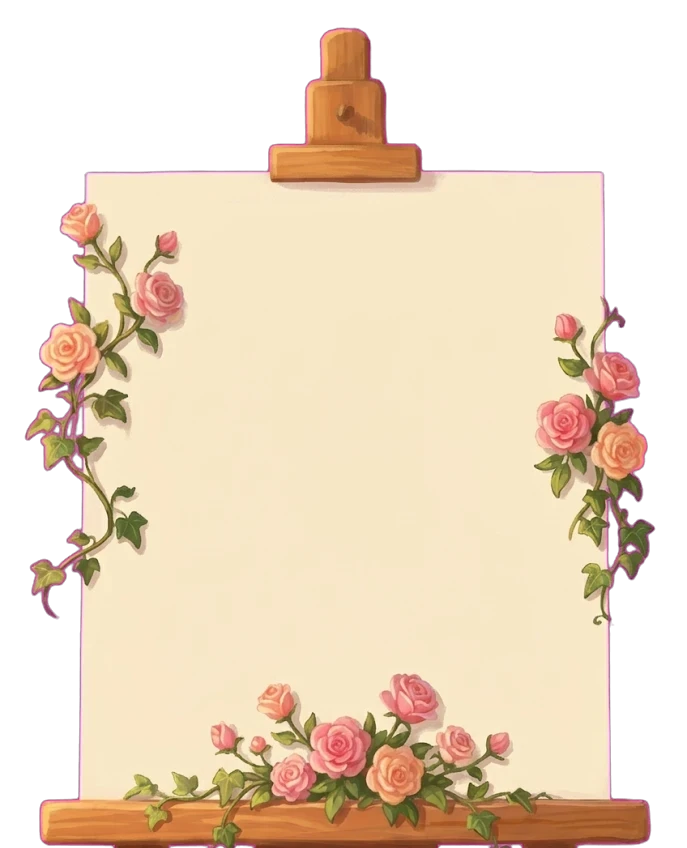
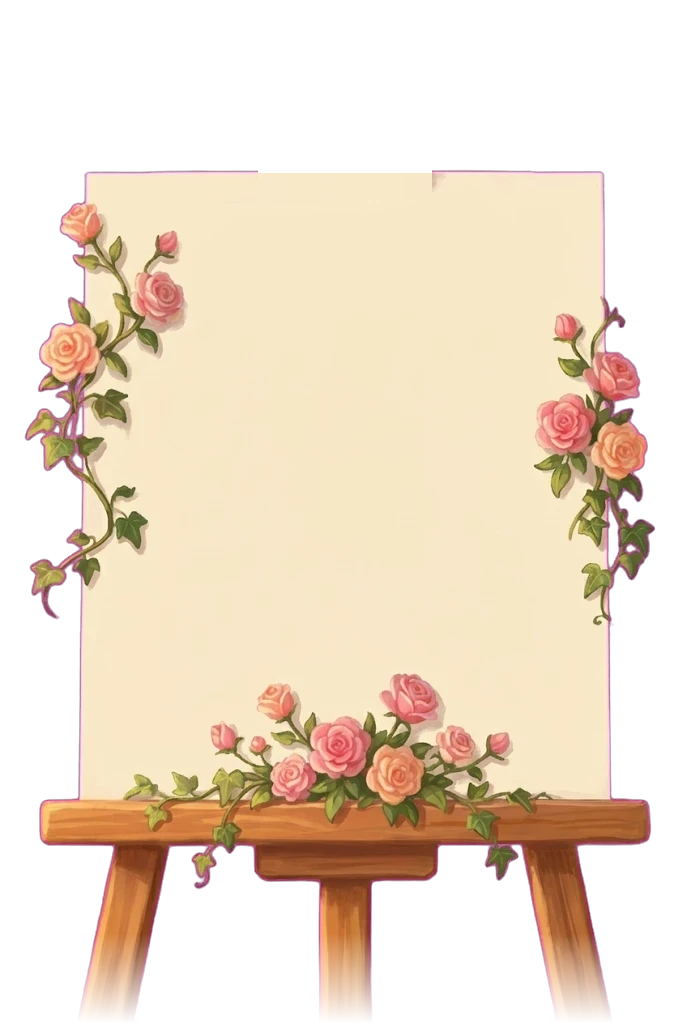
Taman Bunga trial: easel keeps its legs, prints curl over a ring binding
The easel keeps its legs (they fade into the flower bed) and its top is
cut flat. The prints are a ring-bound pad: rings along the top, punched
holes in every print. A print turns like paper: it is six nested strips,
each starting a little later the nearer it is to the rings, so the bottom
edge lifts first and the print curls up over the rings and down behind
the pad. Strips overlap by a pixel so no hairline shows between them.

Claude-Session: https://claude.ai/code/session_019p87eqsaJVTv3pDoAT7Qpw

diff --git a/src/all-templates/taman-bunga/engine/scene.js b/src/all-templates/taman-bunga/engine/scene.js
@@ -351,8 +351,12 @@ export function mountScene(root, { toNominal, lanternStops, wishCount = 0 }) {
     gallery.caption = $('[data-tb-gallery-caption]')
     gallery.pages = [...root.querySelectorAll('[data-tb-page]')].map((el) => ({
       el,
-      shade: el.querySelector('.tb-page-front .tb-page-shade'),
-      backShade: el.querySelector('.tb-page-back .tb-page-shade'),
+      // outermost (at the rings) first: document order of the nested strips
+      strips: [...el.querySelectorAll('[data-tb-strip]')].map((s) => ({
+        el: s,
+        shade: s.querySelector(':scope > .tb-strip-face:not(.tb-strip-back) > .tb-page-shade'),
+        backShade: s.querySelector(':scope > .tb-strip-back > .tb-page-shade'),
+      })),
       p: -1,
     }))
     if (gallery.el) gallery.t = parseT(gallery.el)
@@ -1284,32 +1288,48 @@ export function mountScene(root, { toNominal, lanternStops, wishCount = 0 }) {
         const s = easelSc / z
         const { ew, eh } = gallery
         const horizon = ch * 0.5
-        const ledge = horizon + (ch * 0.84 - horizon) / z // the bottom of its ledge
+        const ground = horizon + (ch * 0.84 - horizon) / z // where its legs meet the flowers
         const x = cw / 2 + (gout > 0 ? cw * 1.2 * gout : (cw * 0.55 * (z - 1)) / 1.8)
-        gallery.easel.style.transform = `translate(${x - (ew / 2) * s}px, ${ledge - eh * s}px) scale(${s})`
+        gallery.easel.style.transform = `translate(${x - (ew / 2) * s}px, ${ground - eh * s}px) scale(${s})`
         if (gallery.dim !== dim) {
           gallery.easel.style.filter = dim < 1 ? `brightness(${dim})` : ''
           gallery.dim = dim
         }
-        // Each page turns over its own stretch of scroll: the bottom edge lifts
-        // toward us, swings over the top of the board and drops behind it.
+        // Each print turns over its own stretch of scroll, like paper: its
+        // bottom edge lifts first and the rest follows, so it curls up and
+        // over the rings, then falls behind the pad. Strip i (from the rings
+        // down) starts later the nearer it is to the rings; all end flat at 300°.
         const n = gallery.pages.length
         const turned = seg(T, gb, 0.965) * Math.max(0, n - 1)
-        let above = 0 // how far the page above this one is lifted (it casts a shadow)
         for (let i = 0; i < n; i++) {
           const pg = gallery.pages[i]
-          const p = ease(clamp(turned - i, 0, 1))
-          const ang = 300 * p
-          if (pg.p !== p) {
-            pg.p = p
-            pg.el.style.transform = `rotateX(${ang.toFixed(2)}deg)`
-            pg.el.style.visibility = p >= 1 ? 'hidden' : 'visible'
-            if (pg.backShade) pg.backShade.style.opacity = (0.35 * (1 - Math.abs(Math.cos((ang * Math.PI) / 180)))).toFixed(3)
+          const p = clamp(turned - i, 0, 1)
+          if (pg.p === p) continue
+          pg.p = p
+          pg.el.style.visibility = p >= 1 ? 'hidden' : 'visible'
+          // past the top it drops behind the pad: let it go before it would show through
+          pg.el.style.opacity = String(1 - seg(p, 0.82, 0.97))
+          const N = pg.strips.length
+          let prev = 0
+          pg.strips.forEach((st, k) => {
+            const lag = 0.3 * (1 - (k + 1) / N)
+            const ang = 300 * ease(clamp((p - lag) / (1 - lag), 0, 1))
+            st.el.style.transform = `rotateX(${(ang - prev).toFixed(2)}deg)`
+            prev = ang
+            // light from in front: a strip darkens as it tips away from us
+            const c = Math.cos((ang * Math.PI) / 180)
+            if (st.shade) st.shade.style.opacity = (0.34 * (1 - Math.max(0, c))).toFixed(3)
+            if (st.backShade) st.backShade.style.opacity = (0.3 * (1 - Math.max(0, -c))).toFixed(3)
+          })
+        }
+        // the print under the one being lifted lies in its shadow
+        for (let i = 1; i < n; i++) {
+          const lift = clamp(turned - (i - 1), 0, 1)
+          const sh = 0.26 * Math.sin(Math.min(1, lift * 1.6) * Math.PI)
+          const top = gallery.pages[i].strips
+          if (top.length && top[0].shade && gallery.pages[i].p <= 0) {
+            for (const st of top) if (st.shade) st.shade.style.opacity = sh.toFixed(3)
           }
-          const tilt = 0.3 * Math.sin((Math.min(ang, 90) * Math.PI) / 180)
-          const under = 0.28 * Math.sin((Math.min(above, 180) * Math.PI) / 180)
-          if (pg.shade) pg.shade.style.opacity = Math.max(tilt, under).toFixed(3)
-          above = ang
         }
       }
     }

diff --git a/src/all-templates/taman-bunga/sections/Journey.jsx b/src/all-templates/taman-bunga/sections/Journey.jsx
@@ -202,10 +202,40 @@ export function galleryPhotos(props) {
     .slice(0, 30)
 }
 
+/** How many strips a print bends in as it turns (engine/scene.js reads them). */
+const PAGE_STRIPS = 6
+/** Ring binding along the top of the pad: ring centres across the 528 px board. */
+const RINGS = Array.from({ length: 11 }, (_, i) => 24 + i * 48)
+
 /**
- * One easel board standing in the garden (painted, legs cropped off), holding
- * the photos as a pad of prints; its roses and ivy sit in front of them. The engine walks it into view and, as the guest scrolls, lifts the
- * top print by its bottom edge, swings it over the board and drops it behind,
+ * One slice of a print: its band of the paper (front: photo, back: plain),
+ * with the next slice hanging from its bottom edge. Nested, so each slice
+ * turns a little more than the one above it and the print curls like paper.
+ */
+function PageStrip({ k, photo }) {
+  const band = { top: `${-k * 100}%`, height: `${PAGE_STRIPS * 100}%` }
+  return (
+    <div className="tb-strip" data-tb-strip>
+      <div className="tb-strip-face">
+        <div className="tb-page-paper" style={band}>
+          <div className="tb-page-photo" style={{ backgroundImage: `url("${photo.src}")` }} />
+        </div>
+        <i className="tb-page-shade" />
+      </div>
+      <div className="tb-strip-face tb-strip-back">
+        <div className="tb-page-paper tb-page-paper-back" style={band} />
+        <i className="tb-page-shade" />
+      </div>
+      {k + 1 < PAGE_STRIPS && <PageStrip k={k + 1} photo={photo} />}
+    </div>
+  )
+}
+
+/**
+ * One easel standing in the garden (painted; its top cut flat), holding the
+ * photos as a ring-bound pad of prints; its roses and ivy sit in front of
+ * them. The engine walks it into view and, as the guest scrolls, curls the
+ * top print up by its bottom edge, over the rings and back behind the pad,
  * showing the next (engine/scene.js, renderCopy). Tap a print to enlarge it.
  */
 export function Gallery({ props, onOpen }) {
@@ -217,17 +247,35 @@ export function Gallery({ props, onOpen }) {
         <img className="tb-easel-back" src={SCENE.easelBack} alt="" />
         <div className="tb-easel-board" data-tb-easel-board>
           {photos.map((p, i) => (
-            <div key={`${p.src}-${i}`} className="tb-page" data-tb-page style={{ zIndex: photos.length - i }}>
-              <button type="button" className="tb-page-front" aria-label={`Perbesar foto ${p.alt || i + 1}`} onClick={() => onOpen(p)}>
-                {/* eslint-disable-next-line @next/next/no-img-element */}
-                <img src={p.src} alt={p.alt || ''} loading={i < 2 ? 'eager' : 'lazy'} />
-                <i className="tb-page-shade" />
-              </button>
-              <div className="tb-page-back" aria-hidden="true">
-                <i className="tb-page-shade" />
-              </div>
+            <div
+              key={`${p.src}-${i}`}
+              className="tb-page"
+              data-tb-page
+              style={{ zIndex: photos.length - i }}
+              role="button"
+              tabIndex={0}
+              aria-label={`Perbesar foto ${p.alt || i + 1}`}
+              onClick={() => onOpen(p)}
+              onKeyDown={(e) => (e.key === 'Enter' || e.key === ' ') && (e.preventDefault(), onOpen(p))}
+            >
+              <PageStrip k={0} photo={p} />
             </div>
           ))}
+          <svg className="tb-easel-rings" viewBox="0 0 528 42" aria-hidden="true">
+            <defs>
+              <linearGradient id="tb-ring" x1="0" x2="1">
+                <stop offset="0" style={{ stopColor: '#8f6a3a' }} />
+                <stop offset="0.5" style={{ stopColor: '#f3d9a4' }} />
+                <stop offset="1" style={{ stopColor: '#a37a42' }} />
+              </linearGradient>
+            </defs>
+            {RINGS.map((x) => (
+              <g key={x}>
+                <path d={`M${x - 4} 39 A5 25 0 0 1 ${x + 4} 39`} fill="none" stroke="rgba(40, 20, 10, 0.35)" strokeWidth="4.2" transform="translate(1 1.5)" />
+                <path d={`M${x - 4} 39 A5 25 0 0 1 ${x + 4} 39`} fill="none" stroke="url(#tb-ring)" strokeWidth="3.4" strokeLinecap="round" />
+              </g>
+            ))}
+          </svg>
         </div>
         {/* eslint-disable-next-line @next/next/no-img-element */}
         <img className="tb-easel-front" src={SCENE.easelFront} alt="" />

diff --git a/src/all-templates/taman-bunga/styles/taman-bunga.css b/src/all-templates/taman-bunga/styles/taman-bunga.css
@@ -450,15 +450,16 @@ html.tb-locked body {
   opacity: 0;
   visibility: hidden;
 }
-/* One easel board (easel-back/front.webp, 687×848 px, the paper at 81,173
+/* One easel (easel-back/front.webp, 687×1024 px, the paper at 81,173
    528×626); the engine sizes and places it (transform on .tb-easel) and turns
-   the pages (rotateX on each .tb-page, about its top edge). */
+   the prints: each is six nested strips (.tb-strip), each rotated a little
+   more than the one above it (rotateX), so it curls like paper. */
 .tb-easel {
   position: absolute;
   left: 0;
   top: 0;
   width: 687px;
-  height: 848px;
+  height: 1024px;
   transform-origin: 0 0;
   will-change: transform;
   z-index: 1;
@@ -475,6 +476,16 @@ html.tb-locked body {
 .tb-easel-front {
   z-index: 2; /* roses and ivy over the prints; taps go through to the photo */
 }
+.tb-easel-rings {
+  position: absolute;
+  left: 0;
+  top: -25px;
+  width: 100%;
+  height: 42px;
+  z-index: 100;
+  overflow: visible;
+  pointer-events: none;
+}
 .tb-easel-board {
   position: absolute;
   left: 81px;
@@ -488,44 +499,65 @@ html.tb-locked body {
 .tb-page {
   position: absolute;
   inset: 0;
+  transform-style: preserve-3d;
+  cursor: zoom-in;
+  -webkit-tap-highlight-color: transparent;
+}
+.tb-page:focus-visible {
+  outline: 2px solid var(--tb-gold);
+  outline-offset: 4px;
+}
+.tb-strip {
+  position: absolute;
+  left: 0;
+  top: 100%; /* hangs from the bottom edge of the strip above */
+  width: 100%;
+  height: calc(626px / 6); /* px, not %: strips nest, a % would shrink each one */
   transform-origin: 50% 0;
   transform-style: preserve-3d;
   will-change: transform;
 }
-.tb-page-front,
-.tb-page-back {
+.tb-page > .tb-strip {
+  top: 0;
+  transform-origin: 50% 14px; /* the ring line */
+}
+.tb-strip-face {
   position: absolute;
-  inset: 0;
-  display: block;
-  width: 100%;
-  margin: 0;
-  border: 0;
-  border-radius: var(--radius-xs);
-  background: #fbf6ee;
-  box-shadow: 0 1px 2px rgba(60, 30, 10, 0.25);
+  inset: 0 0 -1px; /* overlap the next strip by a pixel: no hairline seam between them */
+  overflow: hidden;
   backface-visibility: hidden;
   -webkit-backface-visibility: hidden;
 }
-.tb-page-front {
-  /* the photo clears the roses along the bottom of the board */
-  padding: 30px 34px 132px;
-  cursor: zoom-in;
-}
-.tb-page-front img {
-  display: block;
-  width: 100%;
-  height: 100%;
-  max-width: none;
-  object-fit: cover;
-}
-.tb-page-back {
+.tb-strip-back {
   transform: rotateX(180deg);
-  background: #efe6d8;
+}
+/* a whole print, shifted so each strip shows its own band of it; the
+   punched holes for the rings run along its top */
+.tb-page-paper {
+  position: absolute;
+  left: 0;
+  width: 100%;
+  background:
+    radial-gradient(circle at 24px 14px, #2b1a10 0 4.5px, transparent 5px) 0 0 / 48px 30px repeat-x,
+    #fbf6ee;
+}
+.tb-page-paper-back {
+  background:
+    radial-gradient(circle at 24px 14px, #2b1a10 0 4.5px, transparent 5px) 0 0 / 48px 30px repeat-x,
+    #efe6d8;
+}
+.tb-page-photo {
+  position: absolute;
+  left: 34px;
+  right: 34px;
+  top: 34px;
+  height: 460px; /* clears the roses along the bottom of the board */
+  background-size: cover;
+  background-position: center;
 }
 .tb-page-shade {
   position: absolute;
   inset: 0;
-  border-radius: var(--radius-xs);
   background: #2a1606;
   opacity: 0;
   pointer-events: none;
